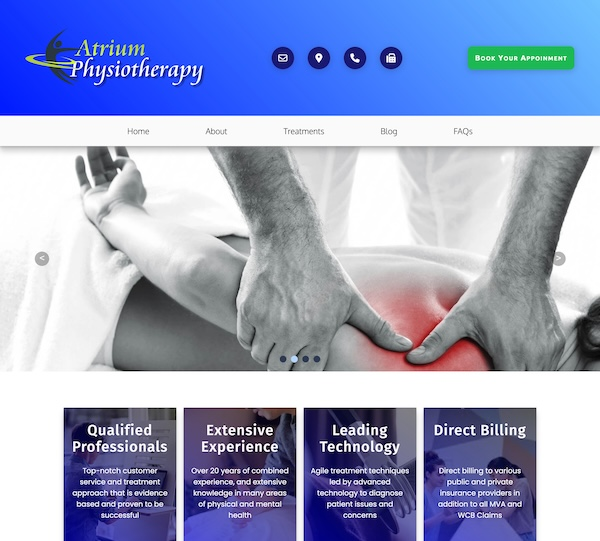
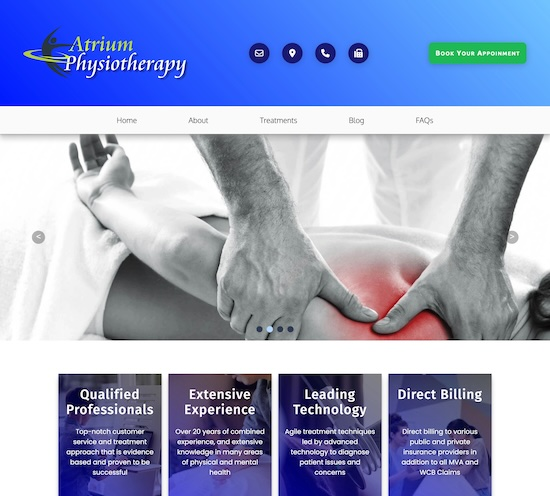
Implement lazy loading for images and reveal sections on scroll

diff --git a/index.html b/index.html
@@ -20,7 +20,7 @@
       //////////// Portfolio -->
 
     <header>
-      <div class="header__container">
+      <div class="header__container lazy-bg">
         <nav>
           <ul class="nav__menu">
             <li><a href="#about">About</a></li>
@@ -68,10 +68,17 @@
     //////////// About -->
 
     <main>
-      <section id="about" class="about">
+      <section id="about" class="section section__hidden">
         <h1>About</h1>
         <div class="about__content">
-          <img src="public/profile.webp" alt="profile picture" />
+          <div class="about__img-container">
+            <img
+              src="public/profile-lowres.jpg"
+              data-src="public/profile.webp"
+              alt="profile picture"
+              class="lazy-load"
+            />
+          </div>
           <div class="about__content-text">
             <p>
               I got first exposed to web development when trying to set up a
@@ -104,7 +111,7 @@
       //////////////////////////////////////////////////////////////////////////
       //////////// Services Section -->
 
-      <section id="services">
+      <section id="services" class="section section__hidden">
         <h1>Services</h1>
         <div class="cards__container">
           <div class="service__card">
@@ -165,7 +172,7 @@
       //////////////////////////////////////////////////////////////////////////
       //////////// Portfolio -->
 
-      <section id="portfolio">
+      <section id="portfolio" class="section section__hidden">
         <h1>Portfolio</h1>
         <div class="project__container">
           <div class="project__card atrium">
@@ -190,13 +197,13 @@
                 <li><i class="fa-solid fa-circle-check"></i>Ongoing Support</li>
               </ul>
               <div class="link__icons">
+                <a href="https://github.com/damianroiz/atrium" target="_blank">
+                  <i class="fa-solid fa-code"></i>Code
+                </a>
                 <a
                   href="https://www.atriumphysiotherapy.com/home"
                   target="_blank"
                 >
-                  <i class="fa-solid fa-code"></i>Code
-                </a>
-                <a href="https://github.com/damianroiz/atrium" target="_blank">
                   <i class="fa-solid fa-display"></i>Live
                 </a>
               </div>
@@ -323,7 +330,7 @@
       //////////////////////////////////////////////////////////////////////////
       //////////// Faqs -->
 
-      <section id="faqs">
+      <section id="faqs" class="section section__hidden">
         <h1>FAQS</h1>
         <div class="faq__container">
           <div class="faq__item">
@@ -415,7 +422,7 @@
       //////////////////////////////////////////////////////////////////////////
       //////////// Contact -->
 
-      <section id="contact" class="contact__section">
+      <section id="contact" class="section contact__section section__hidden">
         <h1>Contact</h1>
         <form
           id="form"

diff --git a/styles.css b/styles.css
@@ -16,14 +16,26 @@ header {
   align-items: center;
   height: 500px;
   clip-path: polygon(0 0, 100% 0, 100% 80%, 0 100%);
+  margin-bottom: 5rem;
+  position: relative;
+}
+
+.lazy-bg {
   background: linear-gradient(
       90deg,
       rgba(6, 125, 237, 0.7) 0%,
       rgba(5, 14, 187, 0.7) 100%
     ),
-    url('/public/background.jpg') no-repeat top / cover;
-  margin-bottom: 5rem;
-  position: relative;
+    url('/public/background-lowres.jpg') no-repeat top / cover;
+}
+
+.loaded-bg {
+  background: linear-gradient(
+      90deg,
+      rgba(6, 125, 237, 0.7) 0%,
+      rgba(5, 14, 187, 0.7) 100%
+    ),
+    url('/public/background.webp') no-repeat top / cover;
 }
 
 nav {
@@ -188,43 +200,56 @@ main {
   }
 }
 
+.section {
+  margin-top: 3rem;
+  transition: all 800ms ease-in-out;
+}
+
+.section__hidden {
+  opacity: 0;
+  transform: translateY(8rem);
+}
+
+.lazy_load {
+  filter: blur(25px);
+}
+
 /*
 /////////////////// ABOUT
 ////////////////////////////////////////
 */
 
-.about {
-  .about__content {
-    display: flex;
-    /* .about__content-text {
-            padding: 0;
-        } */
-  }
+.about__content {
+  display: flex;
+  gap: 20px;
+}
+
+.about__img-container {
+  width: 350px;
+  flex: 0 0 350px;
   img {
     align-self: start;
-    object-fit: contain;
+    object-fit: cover;
     display: block;
-    max-width: 300px;
+    width: 100%;
     margin-right: 2.8rem;
-    flex: 1;
-  }
-
-  @media screen and (max-width: 1200px) {
-    .about__content {
-      flex-direction: column;
-      align-content: center;
-      .about__content-text {
-        padding: 0 10vw;
-      }
-    }
-    img {
-      margin: 0 0 2.8rem 0;
-      align-self: center;
-      max-width: 350px;
-    }
   }
 }
 
+@media screen and (max-width: 1200px) {
+  .about__content {
+    flex-direction: column;
+    align-content: center;
+    .about__content-text {
+      padding: 0 10vw;
+    }
+  }
+  .about__img-container {
+    margin: 0 0 2.8rem 0;
+    align-self: center;
+    max-width: 350px;
+  }
+}
 /*
 /////////////////// SERVICES
 ////////////////////////////////////////

diff --git a/script.js b/script.js
@@ -103,3 +103,54 @@ questions.forEach((question, id) => {
       : (answer.style.maxHeight = answer.scrollHeight + 'px');
   });
 });
+
+///////////////////////
+// Lazy loading images
+const imgTargets = document.querySelectorAll('img[data-src]');
+const background = document.querySelector('header-container')
+
+const loadImg = (entries, observer) => {
+  const [entry] = entries;
+
+  if (!entry.isIntersecting) return;
+
+  entry.target.src = entry.target.dataset.src;
+
+  entry.target.addEventListener('load', () => {
+    entry.target.classList.remove('lazy-img');
+  });
+
+  observer.unobserve(entry.target);
+};
+
+const imgObserver = new IntersectionObserver(loadImg, {
+  root: null,
+  threshold: 0,
+  rootMargin: '200px',
+});
+
+imgTargets.forEach((img) => imgObserver.observe(img));
+
+///////////////////////
+// Reveal section
+
+const sections = document.querySelectorAll('.section');
+
+const revealSection = (entries, observer) => {
+  entries.forEach((entry) => {
+    if (!entry.isIntersecting) return;
+    entry.target.classList.remove('section__hidden');
+    observer.unobserve(entry.target);
+  });
+};
+
+const sectionObserver = new IntersectionObserver(revealSection, {
+  root: null,
+  threshold: 0.15,
+  rootMargin: '0px',
+});
+
+sections.forEach((section) => {
+  sectionObserver.observe(section);
+  section.classList.add('section__hidden');
+});
